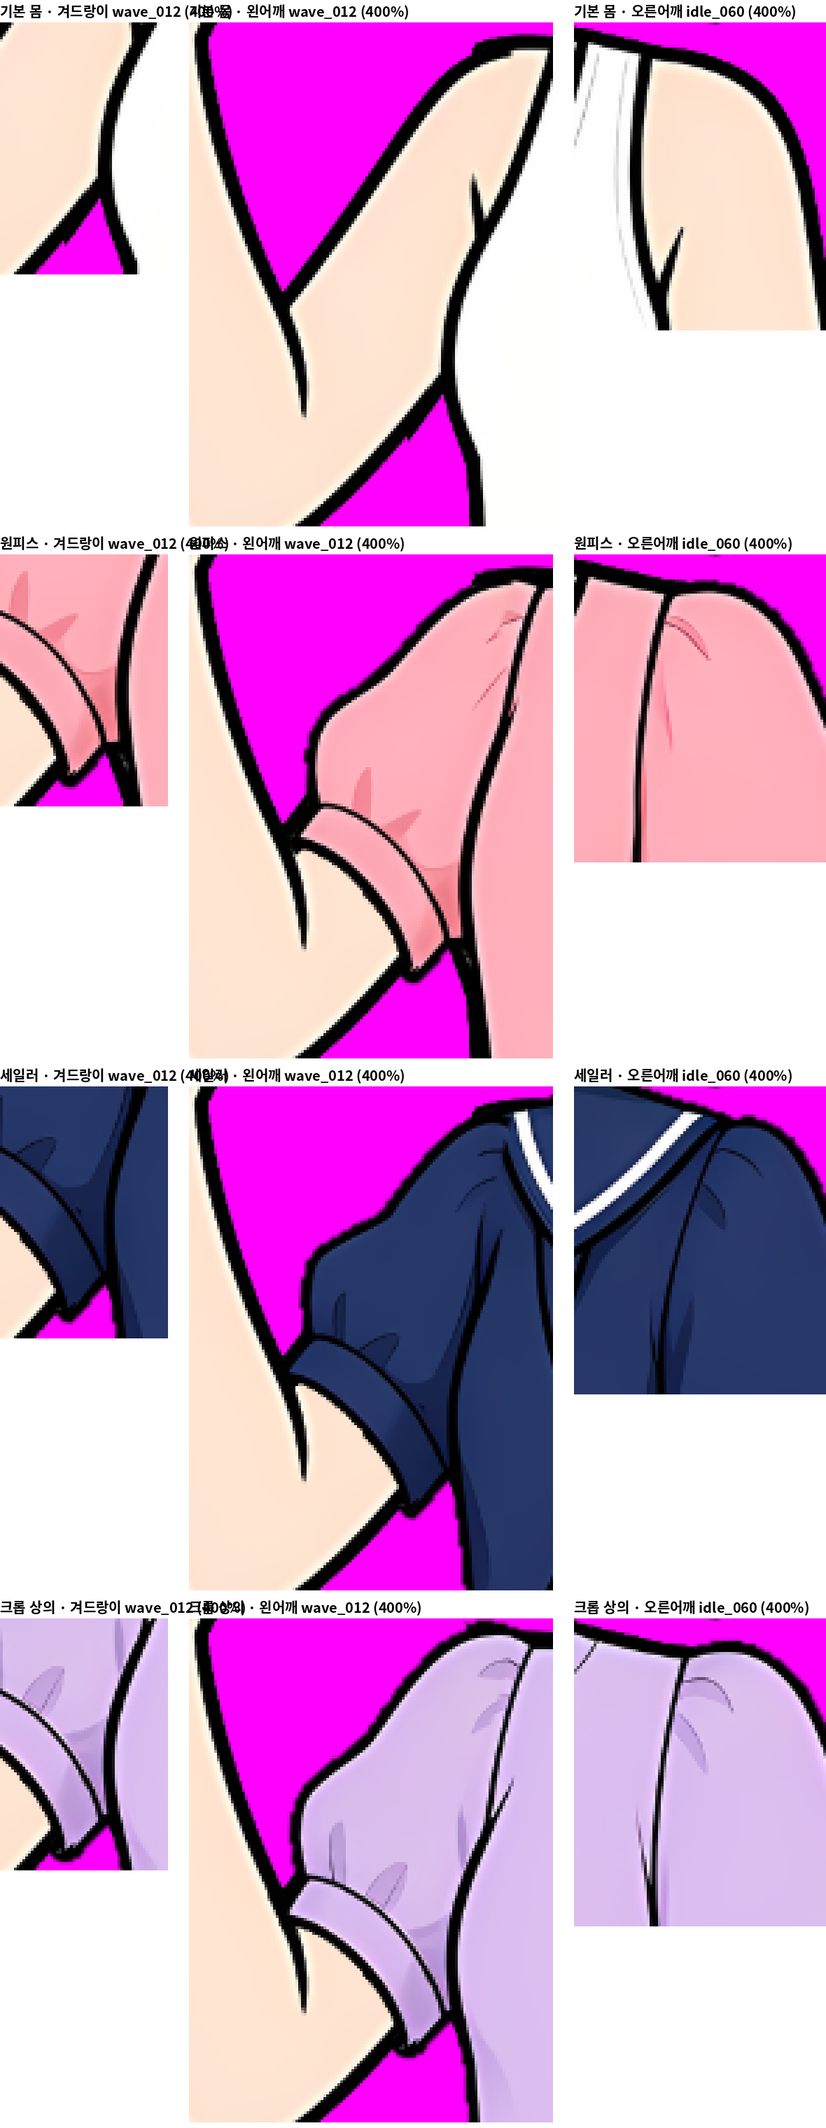
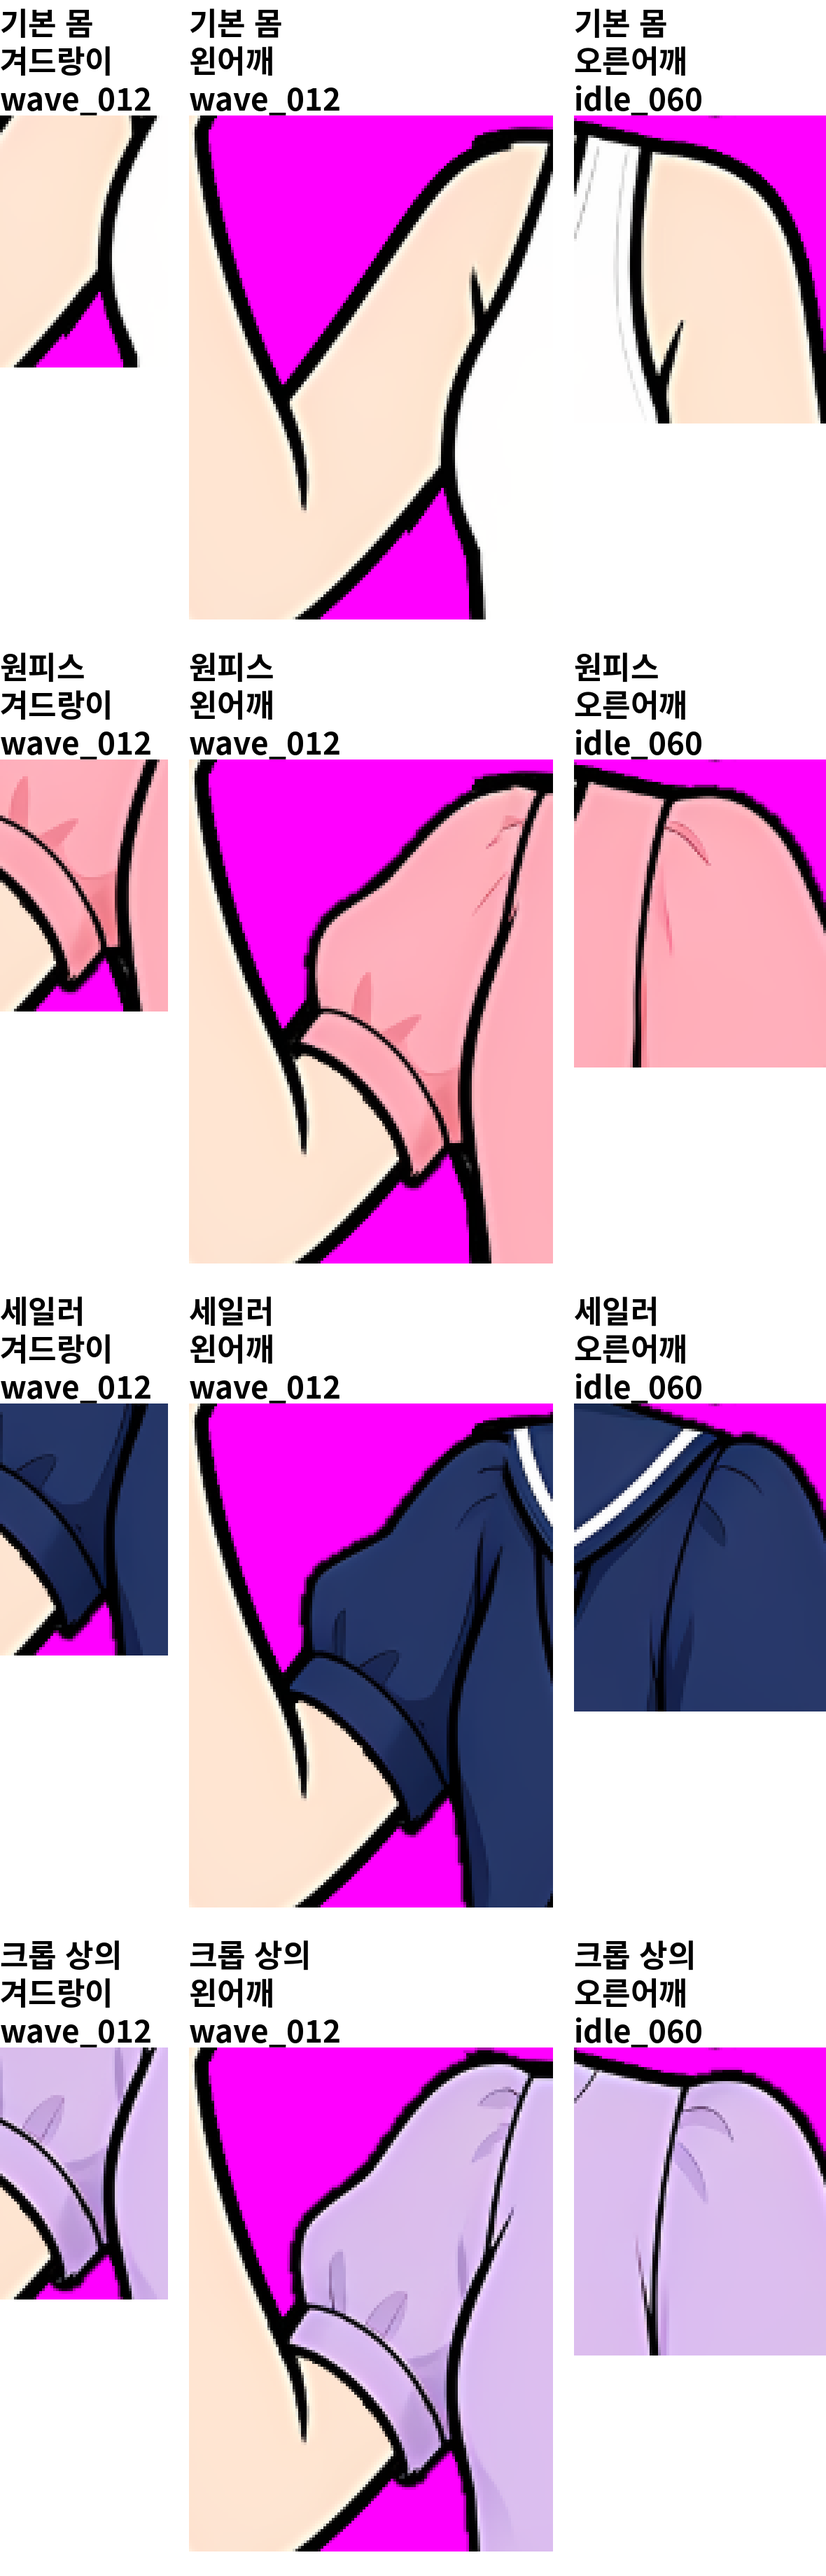
v4c-demo: 400% 재검수 크롭(qa6/recheck), zoom400 라벨 확대. 정정: 6단계 최종 통과는 이 커밋 기준(4782562 아님)

diff --git a/public/v4c-demo/src/qa6/sheet6.py b/public/v4c-demo/src/qa6/sheet6.py
@@ -21,8 +21,8 @@ for o,l in O:
     rows.append((f'{l} · {zl} (400%)',im.crop(b).resize(((b[2]-b[0])*4,(b[3]-b[1])*4),Image.NEAREST)))
 W=sum(r[1].width for r in rows[:3])+60;hh=max(r[1].height for r in rows)
 H4=ImageFont.truetype(fp,44)
-Z4=Image.new("RGB",(W,(hh+80)*4),(255,255,255));d=ImageDraw.Draw(Z4)
+Z4=Image.new("RGB",(W,(hh+200)*4+0),(255,255,255));d=ImageDraw.Draw(Z4)
 for i in range(4):
   x=0
-  for t,im in rows[i*3:i*3+3]: d.text((x,i*(hh+80)+4),t,font=H4,fill=0);Z4.paste(im,(x,i*(hh+80)+64));x+=im.width+30
+  for t,im in rows[i*3:i*3+3]: d.multiline_text((x,i*(hh+200)-2),t.replace(' (400%)','').replace(' ','\n').replace('\n·\n','\n').replace('기본\n몸','기본 몸').replace('크롭\n상의','크롭 상의'),font=H4,fill=0,spacing=2);Z4.paste(im,(x,i*(hh+200)+165));x+=im.width+30
 Z4.save('/workspace/ssb/public/v4c-demo/src/qa6/zoom400_sheet.png')

diff --git a/public/v4c-demo/src/progress.md b/public/v4c-demo/src/progress.md
@@ -74,3 +74,5 @@
 - 원인2(8프레임 wave 024/071~073, basic·none): 왼손 엄지 끝 주름선과 외곽선 사이 흰빛 피부 → dewhite(처리 값) 적용 중.
 - 원인2 실제: 왼손 엄지 끝이 armL/head 경계(190~198)에 걸려 3px 램프로 잘림 → armL 폴리곤에 (197,366),(214,378),(216,400) 추가해 엄지 전체를 팔 레이어로(머리카락 끝은 head 유지). dewhite는 효과 없음(남겨 둠, 무해).
 - 4180 check_frames(v4c 뼈대): 640프레임 pass, fails 0, max_seams 0.
+- 400% 재검수(12:04 지시): 이전 불합격 7프레임(wave 006/008/012/017/031/054/079) × 4종 겨드랑이 28장 합격. 엄지(none·dress wave 024/072) 4장 합격. top·crop 012 소매 아랫단 합격(모서리 꺾임은 정지 000과 동일한 원래 그림). 티아라·요술봉 합격. 크롭 상의 c27e·세일러 c27e 합격. → qa6/recheck/
+- zoom400_sheet 라벨 20→44pt, 3줄로 나눠 겹침 없앰.
